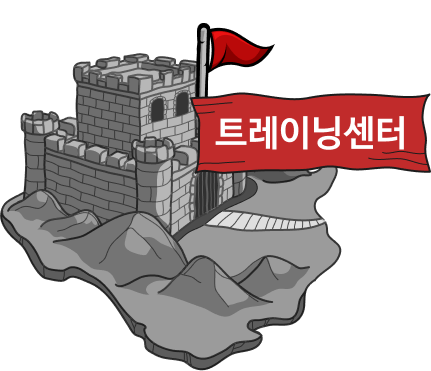
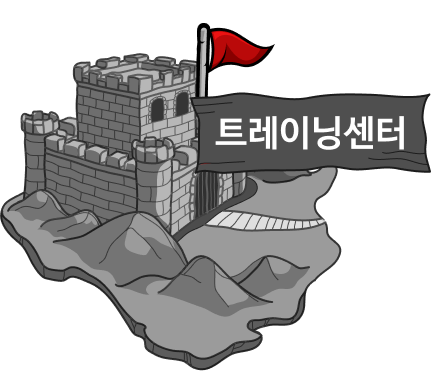
css, img 추가 및 수정

Changed region(s): [[0.4524, 0.2372, 0.9954, 0.4744]]

diff --git a/assets/css/start.css b/assets/css/start.css
@@ -27,21 +27,11 @@
   vertical-align: top;
 }
 .okbtn-MG9 {
-  box-sizing: border-box;
-  padding: 3rem 6.5rem;
-  height: 8rem;
-  position: relative;
-  font-size: 2rem;
-  font-weight: 600;
-  line-height: 1.1111111111;
-  color: #ffffff;
-  font-family: NanumGothic, 'Source Sans Pro';
-  white-space: nowrap;
-  background-color: rgba(0, 0, 0, 0.8000000119);
-  border-radius: 6rem;
-  z-index: 1;
-  display : flex;
-  justify-content : center;
+  background-repeat: no-repeat;
+  background-size: contain;
+  background-image: url(../images/ok_btn.png);
+  width: 30rem;
+  height: 5rem;
 }
 .objects-Vx1 {
   width: 12rem;
@@ -60,21 +50,21 @@
   background-repeat: no-repeat;
   background-position: center;
   background-image: url('../images/text1.png');
+  margin-left: 10rem;
 }
 .group-GLV {
-  width: 12rem;
+  width: 25rem;
   height: 10rem;
   position: relative;
   object-fit: contain;
   vertical-align: top;
-  background-size: cover;
+  background-size: contain;
   background-repeat: no-repeat;
   background-position: center;
-  background-image: url('../images/monster.png');
+  background-image: url('../images/start_img.gif');
 }
 .monster {
   z-index: 1;
-  display: flex;
   display: flex;
   flex-direction: column;
   align-content: center;
